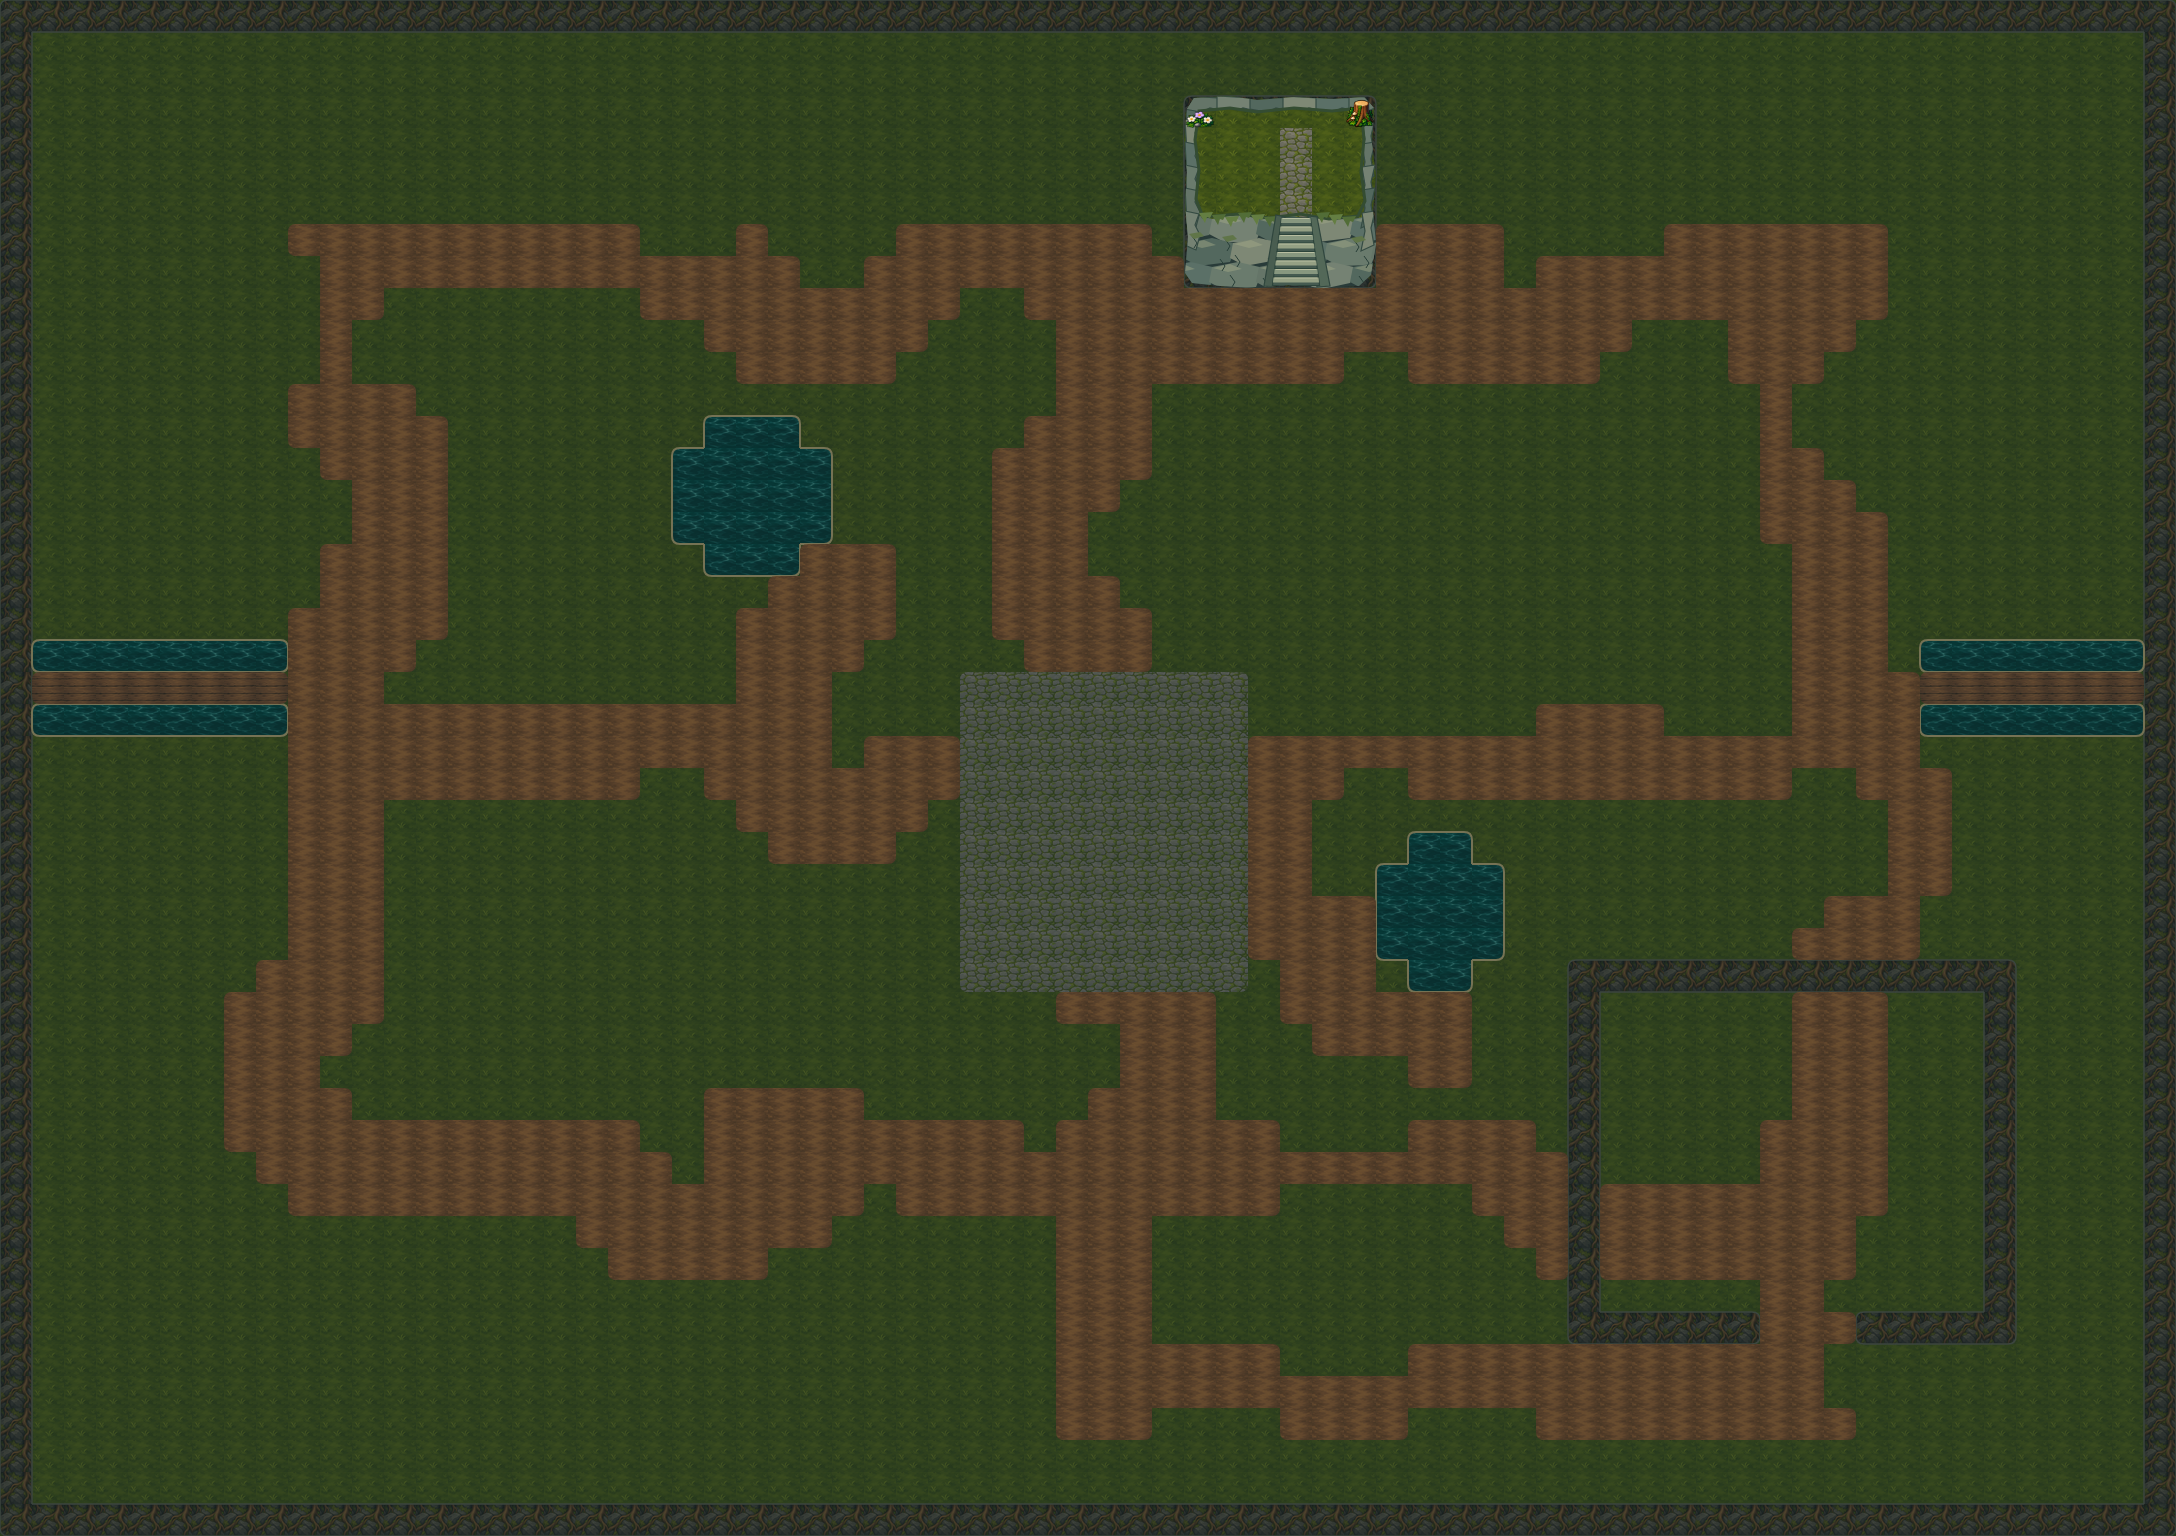
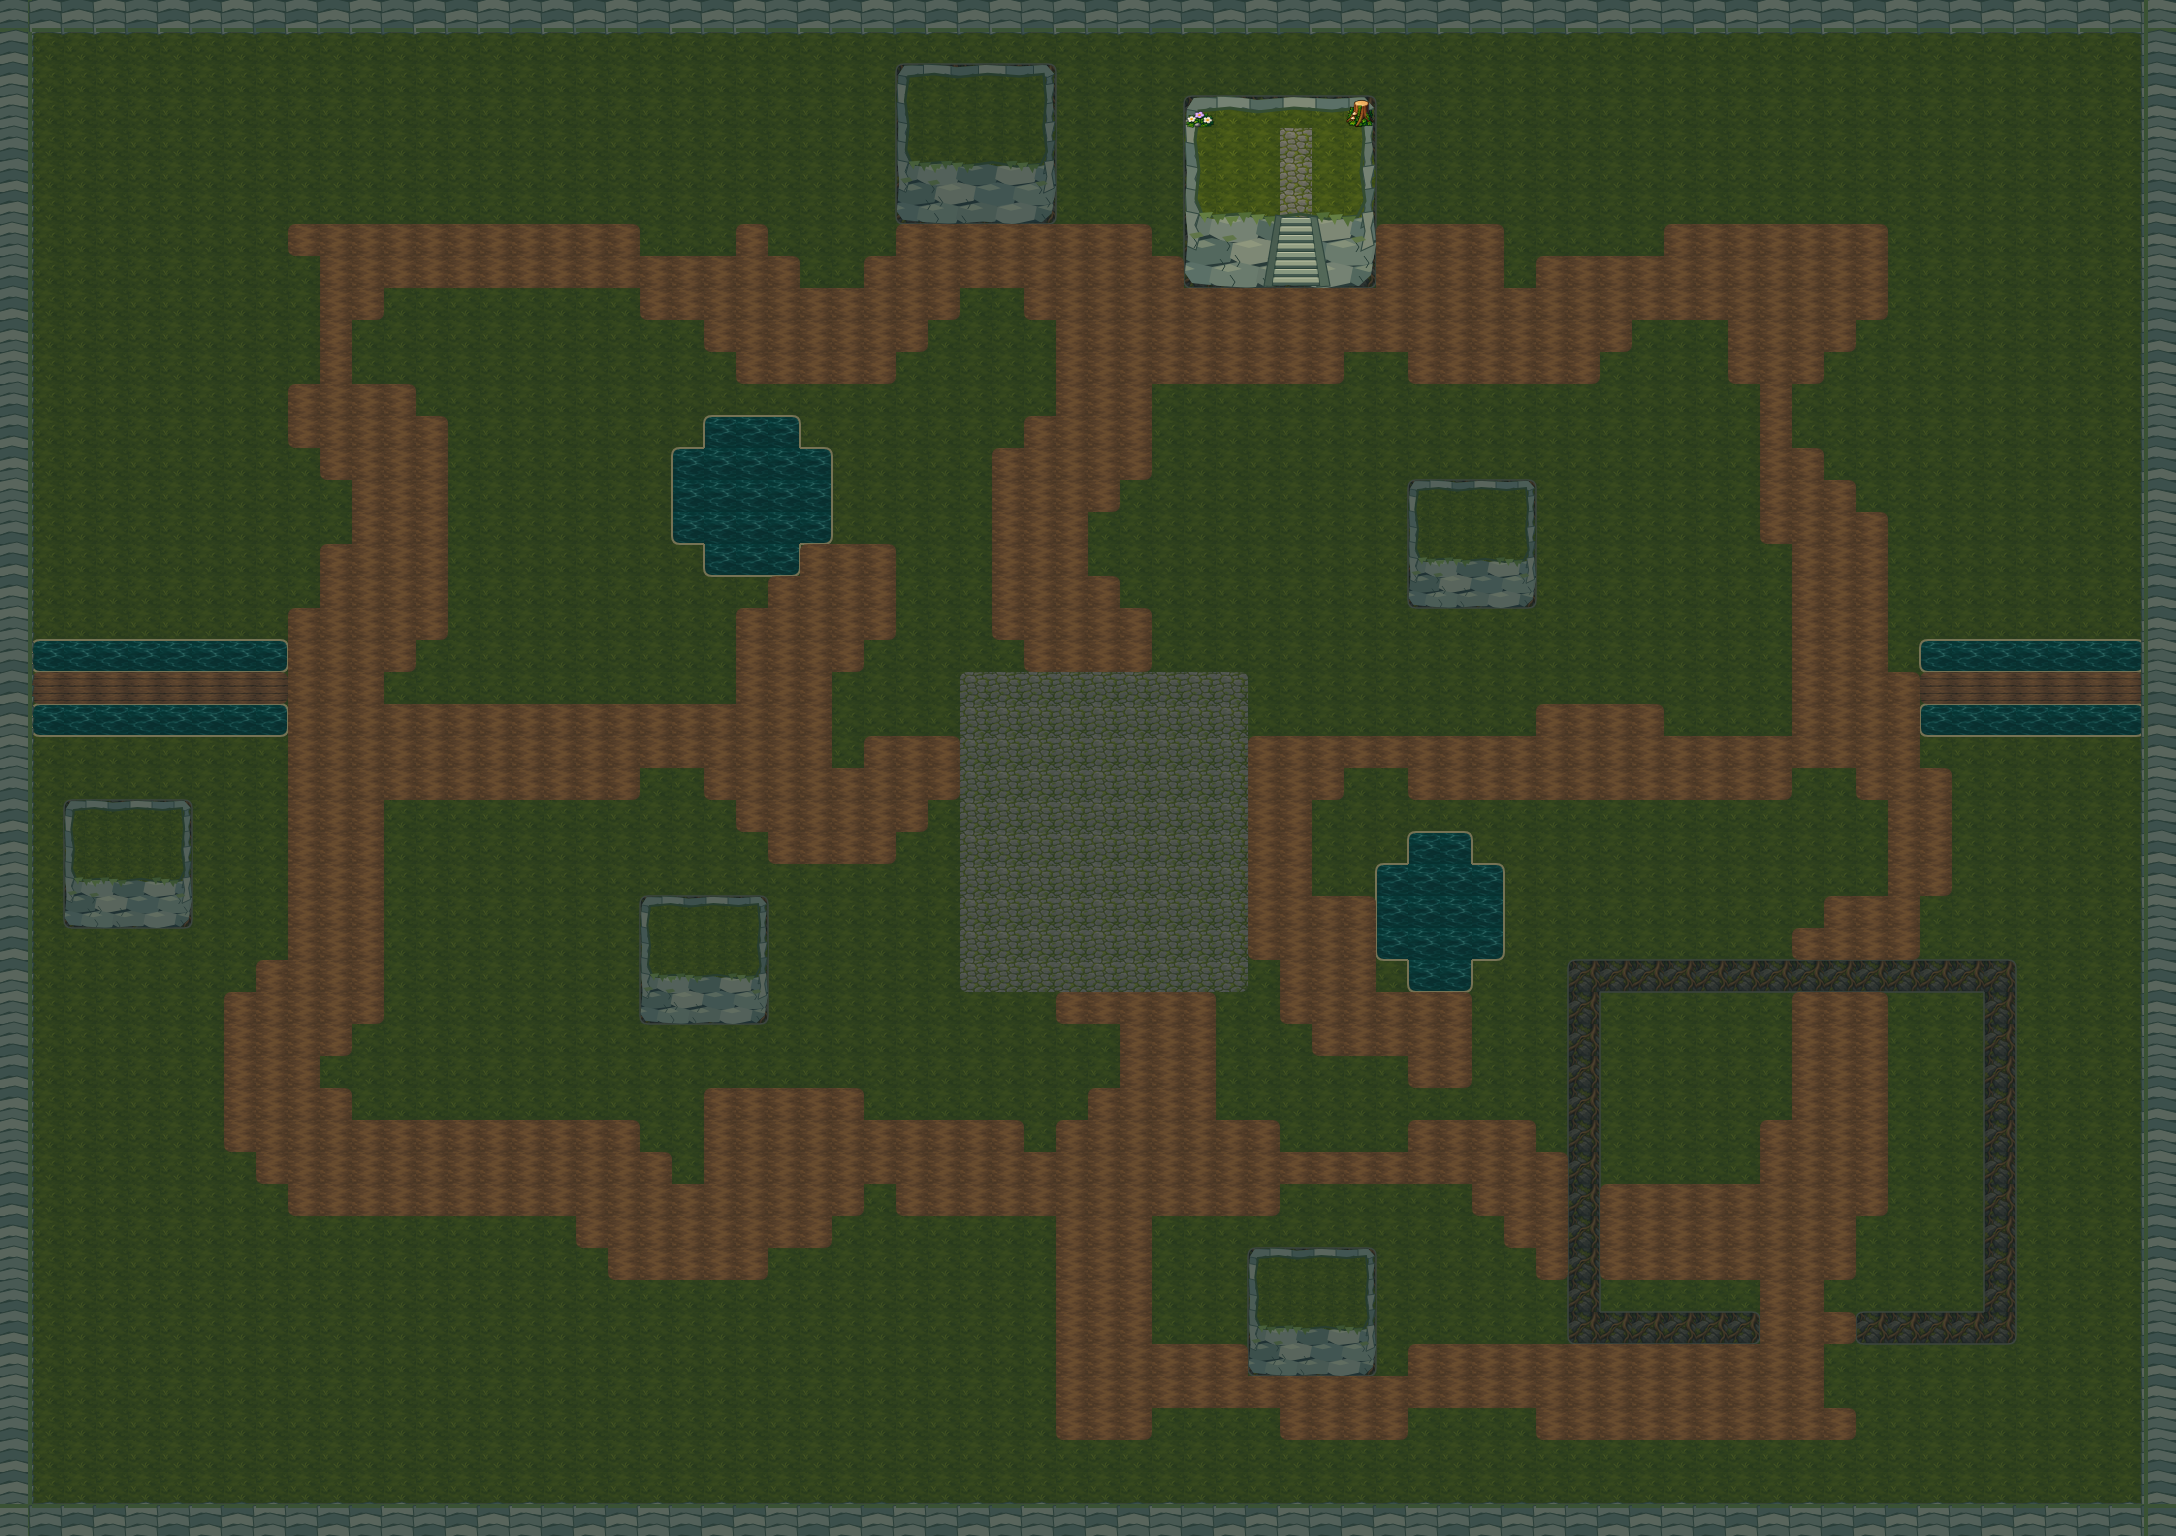
Add Woods cliff outcrops and continuous rocky map edges

diff --git a/apps/client/src/stacked-floors.ts b/apps/client/src/stacked-floors.ts
@@ -1,7 +1,7 @@
 import type Phaser from 'phaser';
-import {woodsLedge,gridMap,stairsFor} from '@realm/game-data';
+import {woodsLedge,woodsCliffs,gridMap,stairsFor} from '@realm/game-data';
 /** Shared by terrain previews and the depth-sorted outdoor floor overlay. */
-export function paintLedge(ctx:CanvasRenderingContext2D,atlas:CanvasImageSource){
+export function paintLedge(ctx:CanvasRenderingContext2D,atlas:CanvasImageSource,scenic=false){
  const l=woodsLedge,cells=gridMap('woods-upper').cells,W=l.width*32,H=l.height*32,B=(l.height+l.faceHeight)*32;
  const polygon=(points:number[][],fill:string,stroke?:string)=>{
   ctx.beginPath();points.forEach(([x,y],i)=>i?ctx.lineTo(x,y):ctx.moveTo(x,y));ctx.closePath();
@@ -13,7 +13,7 @@ export function paintLedge(ctx:CanvasRenderingContext2D,atlas:CanvasImageSource)
  ctx.fillStyle='#293b39';ctx.fillRect(0,0,W,B);
  // The north, west and east faces remain exposed around the turf cap.
  const cap=[[15,15],[46,12],[73,16],[110,12],[148,15],[177,12],[180,43],[177,76],[181,105],[174,H-8],[145,H-5],[116,H-10],[85,H-6],[55,H-10],[19,H-7],[12,103],[15,74],[11,44]];
- for(let y=0;y<l.height;y++)for(let x=0;x<l.width;x++)ctx.drawImage(atlas,cells[l.y+y][l.x+x]*36+2,2,32,32,x*32,y*32,32,32);
+ for(let y=0;y<l.height;y++)for(let x=0;x<l.width;x++)ctx.drawImage(atlas,(scenic?0:cells[l.y+y][l.x+x])*36+2,2,32,32,x*32,y*32,32,32);
  // Each face is built from long fractured strata, with broad vertical facets rather than masonry courses.
  const rock=['#657568','#758273','#53685e','#7e8875','#5b7067','#6a7b6d'];
  for(let band=0;band<3;band++)for(let i=0;i<5;i++){
@@ -31,7 +31,7 @@ export function paintLedge(ctx:CanvasRenderingContext2D,atlas:CanvasImageSource)
  }
  // Turf is clipped separately so the rocky perimeter is visible on every side.
  ctx.save();ctx.beginPath();cap.forEach(([x,y],i)=>i?ctx.lineTo(x,y):ctx.moveTo(x,y));ctx.closePath();ctx.clip();
- for(let y=0;y<l.height;y++)for(let x=0;x<l.width;x++)ctx.drawImage(atlas,cells[l.y+y][l.x+x]*36+2,2,32,32,x*32,y*32,32,32);
+ for(let y=0;y<l.height;y++)for(let x=0;x<l.width;x++)ctx.drawImage(atlas,(scenic?0:cells[l.y+y][l.x+x])*36+2,2,32,32,x*32,y*32,32,32);
  ctx.restore();
  ctx.beginPath();cap.forEach(([x,y],i)=>i?ctx.lineTo(x,y):ctx.moveTo(x,y));ctx.closePath();ctx.strokeStyle='#344c32';ctx.lineWidth=3;ctx.stroke();
  for(let i=0;i<12;i++){const x=21+i*13,y=H-9+(i%3)*2;if(x>94&&x<130)continue;polygon([[x-6,y-2],[x+8,y-3],[x+5,y+3],[x+2,y+2],[x,y+8],[x-3,y+3]],i%2?'#526d37':'#647e42');}
@@ -42,6 +42,7 @@ export function paintLedge(ctx:CanvasRenderingContext2D,atlas:CanvasImageSource)
   ctx.strokeStyle='#293f38';ctx.lineWidth=1;ctx.beginPath();ctx.moveTo(x,y);ctx.lineTo(x+5,y+7);ctx.lineTo(x+2,y+12);ctx.stroke();
   if(i%3===0)polygon([[x-3,y-2],[x+8,y-4],[x+12,y],[x+2,y+3]],'#607548');
  }
+ if(!scenic){
  // A flared stone staircase is cut into the south face; retaining cheeks meet the cliff.
  polygon([[92,H-9],[101,H-7],[94,B-1],[80,B-2]],'#495d50','#30463e');
  polygon([[124,H-8],[133,H-7],[146,B-2],[133,B-1]],'#536858','#30463e');
@@ -51,12 +52,36 @@ export function paintLedge(ctx:CanvasRenderingContext2D,atlas:CanvasImageSource)
   polygon([[x,y],[x+width,y],[x+width+.5,y+5],[x-.5,y+5]],i%2?'#95a084':'#87977f');
   ctx.strokeStyle='#b8bda0';ctx.lineWidth=1;ctx.beginPath();ctx.moveTo(x+1,y+.5);ctx.lineTo(x+width-1,y+.5);ctx.stroke();
  }
+ }
  ctx.restore();
 
+}
+/** Boundary cliffs share the ledge's stone palette, with joined corners and no root-wall tiles. */
+export function paintWoodsCliffs(ctx:CanvasRenderingContext2D,atlas:CanvasImageSource){
+ const map=gridMap('woods'),W=map.width,H=map.height;
+ for(let y=0;y<H;y++)for(let x=0;x<W;x++)if(x===0||y===0||x===W-1||y===H-1){
+  ctx.save();ctx.translate(x*32,y*32);
+  ctx.fillStyle='#33483f';ctx.fillRect(0,0,32,32);
+  const shades=['#657568','#758273','#53685e','#7e8875'];
+  for(let i=0;i<3;i++){
+   const a=(x*7+y*11+i*3)%7,b=i*11;
+   ctx.beginPath();ctx.moveTo(-3,b+2);ctx.lineTo(12+a,b-2);ctx.lineTo(34,b+3);ctx.lineTo(32,b+12);ctx.lineTo(9,b+9);ctx.lineTo(-2,b+13);ctx.closePath();ctx.fillStyle=shades[(x+y+i)%4];ctx.fill();
+   ctx.strokeStyle='#394e41';ctx.lineWidth=1;ctx.stroke();
+  }
+  // Moss joins the rock to the playable forest-facing side of the boundary.
+  ctx.strokeStyle='#506b39';ctx.lineWidth=4;ctx.beginPath();
+  if(y===0){ctx.moveTo(0,30);ctx.lineTo(32,30);}if(y===H-1){ctx.moveTo(0,2);ctx.lineTo(32,2);}
+  if(x===0){ctx.moveTo(30,0);ctx.lineTo(30,32);}if(x===W-1){ctx.moveTo(2,0);ctx.lineTo(2,32);}ctx.stroke();ctx.restore();
+ }
+ for(const c of woodsCliffs){ctx.save();ctx.translate(c.x*32,c.y*32);ctx.scale(c.size/6,c.size/6);paintLedge(ctx,atlas,true);ctx.restore();}
 }
 export function drawRaisedFloor(scene:Phaser.Scene,region:string,click:(id:string)=>void){
  if(region!=='woods'&&region!=='woods-upper')return;
  const l=woodsLedge,key='woods-visible-ledge';
+ const scenicKey='woods-scenic-cliff';
+ if(!scene.textures.exists(scenicKey)){const t=scene.textures.createCanvas(scenicKey,192,192)!;paintLedge(t.getContext(),scene.textures.get('terrain-woods-32').getSourceImage() as HTMLImageElement,true);t.refresh();}
+ for(const c of woodsCliffs)scene.add.image(c.x*64,c.y*64,scenicKey).setOrigin(0).setDisplaySize(c.size*64,c.size*64).setDepth((c.y+c.size)*64-1).setData('scenicCliff',true);
+
  if(!scene.textures.exists(key)){const texture=scene.textures.createCanvas(key,l.width*32,(l.height+l.faceHeight)*32)!;paintLedge(texture.getContext(),scene.textures.get('terrain-woods-32').getSourceImage() as HTMLImageElement);texture.refresh();}
  scene.add.image(l.x*64,l.y*64,key).setOrigin(0).setScale(2).setDepth((l.y+l.height+l.faceHeight)*64-1).setData('raisedFloor','woods-upper');
  const stair=stairsFor(region).find(s=>s.id.startsWith('woods-ledge-'))!,up=stair.direction==='up',size=up?160:92;

diff --git a/apps/client/src/tiled-terrain.ts b/apps/client/src/tiled-terrain.ts
@@ -1,4 +1,4 @@
-import {paintLedge} from './stacked-floors';
+import {paintLedge,paintWoodsCliffs} from './stacked-floors';
 import type Phaser from 'phaser';
 import {paintConnectedTerrain,usesConnectedTerrain} from './connected-terrain';
 import {gridMap,islandForRegion,type RegionId} from '@realm/game-data';
@@ -7,8 +7,8 @@ export const terrainTileAssets=Object.entries(files).map(([path,url])=>({key:`te
 export const terrainTileAsset=terrainTileAssets.find(a=>a.key==='terrain-elderwood-32')!;
 export const terrainKey=(region:string)=>`terrain-${islandForRegion(region)}-32`;
 export function paintRegion(ctx:CanvasRenderingContext2D,region:RegionId,atlas:CanvasImageSource,cells=gridMap(region).cells){
- if(region==='woods-upper'){paintConnectedTerrain(ctx,gridMap('woods').cells,atlas);ctx.fillStyle='#10222b55';ctx.fillRect(0,0,ctx.canvas.width,ctx.canvas.height);ctx.save();ctx.translate(37*32,3*32);paintLedge(ctx,atlas);ctx.restore();return;}
- if(region!=='elderwood-upper'){paintConnectedTerrain(ctx,cells,atlas);if(region==='woods'){ctx.save();ctx.translate(37*32,3*32);paintLedge(ctx,atlas);ctx.restore();}return;}
+ if(region==='woods-upper'){paintConnectedTerrain(ctx,gridMap('woods').cells,atlas);paintWoodsCliffs(ctx,atlas);ctx.fillStyle='#10222b55';ctx.fillRect(0,0,ctx.canvas.width,ctx.canvas.height);ctx.save();ctx.translate(37*32,3*32);paintLedge(ctx,atlas);ctx.restore();return;}
+ if(region!=='elderwood-upper'){paintConnectedTerrain(ctx,cells,atlas);if(region==='woods'){paintWoodsCliffs(ctx,atlas);ctx.save();ctx.translate(37*32,3*32);paintLedge(ctx,atlas);ctx.restore();}return;}
  paintConnectedTerrain(ctx,gridMap('elderwood').cells,atlas);ctx.fillStyle='#10222bd9';ctx.fillRect(0,0,ctx.canvas.width,ctx.canvas.height);
  // Show the town below the upper rooms, with walkable floor cells highlighted.
  for(let y=0;y<cells.length;y++)for(let x=0;x<cells[y].length;x++)if(cells[y][x]!==5)ctx.drawImage(atlas,cells[y][x]*36+2,2,32,32,x*32,y*32,32,32);

diff --git a/tests/woods-cliffs.test.ts b/tests/woods-cliffs.test.ts
@@ -1,0 +1,13 @@
+import {test} from 'node:test';
+import assert from 'node:assert/strict';
+import {woodsCliffs,gridMap,gridSpawns,portalFor,resourceNodes,stairsFor} from '@realm/game-data';
+import {pathfind,legal} from '@realm/shared';
+test('Woods outcrops are solid and retain routes to encounters, gathering and stairs',()=>{
+ const map=gridMap('woods'),start=portalFor('woods').arrival;
+ assert.equal(woodsCliffs.length,5);
+ for(const c of woodsCliffs)for(let y=c.y;y<c.y+c.size;y++)for(let x=c.x;x<c.x+c.size;x++){
+  assert.equal(map.cells[y][x],5);assert.equal(legal({x:x+.5,y:y+.5},'woods'),false);
+ }
+ for(let y=0;y<map.height;y++)for(let x=0;x<map.width;x++)if(x===0||y===0||x===map.width-1||y===map.height-1)assert.ok(map.blocked.has(`${x},${y}`));
+ for(const goal of [...gridSpawns('woods'),...resourceNodes.filter(n=>n.region==='woods'),...stairsFor('woods')])assert.ok(pathfind(start,goal,'woods').length,JSON.stringify(goal));
+});

diff --git a/packages/game-data/src/grid-world.ts b/packages/game-data/src/grid-world.ts
@@ -1,3 +1,4 @@
+import {woodsCliffs} from './woods-cliffs';
 import {woodsLedge} from './elevation';
 import {craftingStations} from './town-services';
 import {villageBuildings,buildingsFor,isVillageUpper} from './village-buildings';
@@ -116,6 +117,7 @@ export function gridMap(region:string):GridMap{
   prop('woods-portal',33,22.5,3,3);prop('caverns-stairs-down',33,11,3,2);
   path([[35,10],[40,10],[45,8]]);
   rect(woodsLedge.x,woodsLedge.y,woodsLedge.width,woodsLedge.height+woodsLedge.faceHeight,5);
+  for(const cliff of woodsCliffs)rect(cliff.x,cliff.y,cliff.size,cliff.size,5);
   const originalTrail=new Set<string>();for(let y=1;y<height-1;y++)for(let x=1;x<width-1;x++)if([1,2,4].includes(cells[y][x]))originalTrail.add(`${x},${y}`);
   const protectedSpawns=new Set(gridSpawns('woods').map(p=>`${Math.floor(p.x)},${Math.floor(p.y)}`));
   const seed=dressingSeed;

diff --git a/packages/game-data/src/woods-cliffs.ts b/packages/game-data/src/woods-cliffs.ts
@@ -1,0 +1,8 @@
+/** Solid scenic outcrops. Only Lookout Ledge has a walkable upper floor. */
+export const woodsCliffs=[
+ {x:28,y:2,size:5},
+ {x:2,y:25,size:4},
+ {x:20,y:28,size:4},
+ {x:44,y:15,size:4},
+ {x:39,y:39,size:4},
+] as const;

diff --git a/packages/game-data/src/index.ts b/packages/game-data/src/index.ts
@@ -79,3 +79,5 @@ export * from './fishing';
 export * from './town-services';
 
 export * from './map-furniture';
+
+export {woodsCliffs} from './woods-cliffs';

diff --git a/docs/stacked-floors.md b/docs/stacked-floors.md
@@ -47,3 +47,19 @@ an actual second player visible upstairs from below.
 
 Deploy Render and Vercel together. No database migration or new environment
 variables are needed; progress uses the existing save format.
+
+## Woods cliff scenery
+
+`woods-cliffs.ts` defines five solid scenic outcrops at (28,2), (2,25),
+(20,28), (44,15), and (39,39). Their square footprints use blocked terrain in
+both client and server. They reuse the lookout's continuous stone/moss painter
+without stairs or upper-floor actors. The existing one-cell map boundary uses
+joined rock strata and inward-facing moss instead of root-wall terrain. The
+boundary collision and map dimensions are unchanged. Preview/editor terrain and
+the upper-floor ground backdrop include the same scenery; game outcrops also
+have depth-sorted overlays so forest actors pass behind them correctly.
+
+The route regression covers all surface monster spawns, resource nodes and
+stairs after placing cliffs. `npm run test:woods-cliffs:browser` checks desktop
+and mobile rendering at northern, western and southern outcrops. Deploy both
+Render and Vercel for the new solid outcrop footprints.
